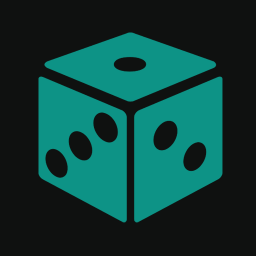
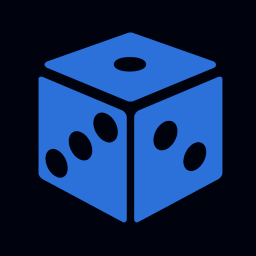
switch color theme to blue and orange
Fixes #1718

diff --git a/src/main/resources/theme/style.css b/src/main/resources/theme/style.css
@@ -26,19 +26,19 @@
 
   /* A bright color for highlighting/accenting objects.  For example: selected
    * text; selected items in menus, lists, trees, and tables; progress bars */
-  -fx-accent: -teal-500;
-  -dimmed-accent: -teal-900;
+  -fx-accent: #2b71d9;
+  -dimmed-accent: #1f519d;
   -fx-box-border: -grey-600;
 
   /* color of non-focused yet selected elements */
-  -fx-selection-bar-non-focused: -teal-900;
+  -fx-selection-bar-non-focused: #204277;
 
   /* Meaningful Colors */
   -good: -green-500;
   -warn: -orange-500;
   -bad: -red-500;
 
-  -fx-disabled-opacity: 0.8;
+  -fx-disabled-opacity: 0.7;
 
   SHADOW_COLOR: #00000099;
 
@@ -57,10 +57,10 @@
   REVIEW_SCORE_1: #ae453b;
 
   /* Chart Color Palette */
-  CHART_COLOR_1: #609E15;
-  CHART_COLOR_2: #9BD454;
-  CHART_COLOR_3: #117D3C;
-  CHART_COLOR_4: #42A86B;
+  CHART_COLOR_1: #2B71D9;
+  CHART_COLOR_2: #5998F9;
+  CHART_COLOR_3: #3888FF;
+  CHART_COLOR_4: #6398E8;
   CHART_COLOR_5: #AE3417;
   CHART_COLOR_6: #E9775C;
   CHART_COLOR_7: #951448;
@@ -71,19 +71,19 @@
      *
      * 20% opacity
      */
-  CHART_COLOR_1_TRANS_20: #609E1533;
-  CHART_COLOR_2_TRANS_20: #9BD45433;
-  CHART_COLOR_3_TRANS_20: #117D3C33;
-  CHART_COLOR_4_TRANS_20: #42A86B33;
+  CHART_COLOR_1_TRANS_20: #2B71D933;
+  CHART_COLOR_2_TRANS_20: #5998F933;
+  CHART_COLOR_3_TRANS_20: #3888FF33;
+  CHART_COLOR_4_TRANS_20: #6398E833;
   CHART_COLOR_5_TRANS_20: #AE341733;
   CHART_COLOR_6_TRANS_20: #E9775C33;
   CHART_COLOR_7_TRANS_20: #95144833;
   CHART_COLOR_8_TRANS_20: #C84F8033;
   /* 70% opacity */
-  CHART_COLOR_1_TRANS_70: #609E15b3;
-  CHART_COLOR_2_TRANS_70: #9BD454b3;
-  CHART_COLOR_3_TRANS_70: #117D3Cb3;
-  CHART_COLOR_4_TRANS_70: #42A86Bb3;
+  CHART_COLOR_1_TRANS_70: #2B71D9b3;
+  CHART_COLOR_2_TRANS_70: #5998F9b3;
+  CHART_COLOR_3_TRANS_70: #3888FFb3;
+  CHART_COLOR_4_TRANS_70: #6398E8b3;
   CHART_COLOR_5_TRANS_70: #AE3417b3;
   CHART_COLOR_6_TRANS_70: #E9775Cb3;
   CHART_COLOR_7_TRANS_70: #951448b3;
@@ -194,16 +194,20 @@
 .button-raised {
   -fx-padding: 0.7em 1em;
   -jfx-button-type: RAISED;
-  -fx-background-color: white;
+  -fx-background-color: #e19e3b;
   -fx-text-fill: -fx-dark-text-color;
 }
 .button-raised .icon {
   -fx-text-fill: -fx-dark-text-color;
 }
 
+.button-raised:disabled {
+  -fx-opacity: -fx-disabled-opacity;
+}
+
 .button:default:hover,
 .button-raised:hover {
-  -fx-background-color: -grey-200;
+  -fx-background-color: #ffb343;
 }
 
 .toggle-button {
@@ -988,7 +992,7 @@
 }
 
 .default-color0.chart-bar:highlighted-bar {
-  -fx-bar-fill: #FFA500;
+  -fx-bar-fill: #E19E3B;
 }
 
 /***************** Hint *****************/

diff --git a/src/main/resources/theme/jfoenix.css b/src/main/resources/theme/jfoenix.css
@@ -365,6 +365,15 @@
   -fx-background-color: WHITE;
 }
 
+/*******************************************************************************
+*                                                                              *
+* JFX Progress Bar                                                             *
+*                                                                              *
+*******************************************************************************/
+
+.jfx-progress-bar > .bar {
+    -fx-background-color: -fx-accent;
+}
 
 /*******************************************************************************
  *                                                                             *

diff --git a/src/main/resources/theme/style-webview.css b/src/main/resources/theme/style-webview.css
@@ -16,7 +16,7 @@ html, body {
 
 a {
   /* Use same as -fx-accent */
-  color: #009688;
+  color: #2b71d9;
   text-decoration: none;
 }
 
